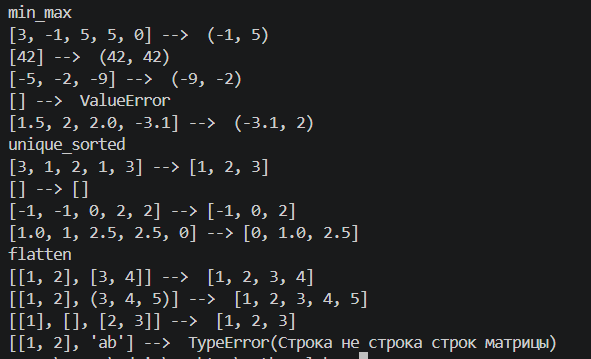
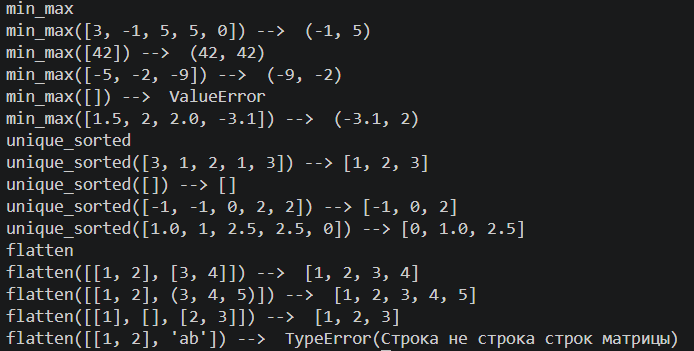
micro

Changed region(s): [[0.0, 0.0, 0.9746, 1.0], [0.4569, 0.1994, 0.5178, 0.2279]]

diff --git a/src/lab02/01_arrays.py b/src/lab02/01_arrays.py
@@ -53,22 +53,22 @@ m2=list(set(a4))
 m3=list(set(a8))
 m4=list(set(a9))
 print("min_max")
-print(f"{a1} --> ", min_max(a1))
-print(f"{a2} --> ", min_max(a2))
-print(f"{a3} --> ", min_max(a3))
-print(f"{a4} --> ", min_max(a4))
-print(f"{a5} --> ", min_max(a5))
+print(f"min_max({a1}) --> ", min_max(a1))
+print(f"min_max({a2}) --> ", min_max(a2))
+print(f"min_max({a3}) --> ", min_max(a3))
+print(f"min_max({a4}) --> ", min_max(a4))
+print(f"min_max({a5}) --> ", min_max(a5))
 print("unique_sorted")
-print(f"{a6} -->", unique_sorted(0,len(m1)-1,m1))
-print(f"{a4} -->", unique_sorted(0,len(m2)-1,m2))
-print(f"{a8} -->", unique_sorted(0,len(m3)-1,m3))
-print(f"{a9} -->", unique_sorted(0,len(m4)-1,m4))
+print(f"unique_sorted({a6}) -->", unique_sorted(0,len(m1)-1,m1))
+print(f"unique_sorted({a4}) -->", unique_sorted(0,len(m2)-1,m2))
+print(f"unique_sorted({a8}) -->", unique_sorted(0,len(m3)-1,m3))
+print(f"unique_sorted({a9}) -->", unique_sorted(0,len(m4)-1,m4))
 print("flatten")
 b1 = [[1, 2], [3, 4]]
 b2 =[[1, 2], (3, 4, 5)]
 b3= [[1], [], [2, 3]]
 b4 =[[1, 2], "ab"]
-print(f"{b1} --> ", flatten(b1))
-print(f"{b2} --> ", flatten(b2))
-print(f"{b3} --> ", flatten(b3))
-print(f"{b4} --> ", flatten(b4))
+print(f"flatten({b1}) --> ", flatten(b1))
+print(f"flatten({b2}) --> ", flatten(b2))
+print(f"flatten({b3}) --> ", flatten(b3))
+print(f"flatten({b4}) --> ", flatten(b4))

diff --git a/src/lab02/02_matrix.py b/src/lab02/02_matrix.py
@@ -55,20 +55,20 @@ c2 = [[-1, 1], [10, -10]]
 c3 = [[0, 0], [0, 0]]
 c4 = [[1, 2], [3]]
 print("transpose")
-print(f"{a1} -->", transpose(a1))
-print(f"{a2} -->", transpose(a2))
-print(f"{a3} -->", transpose(a3))
-print(f"{a4} -->", transpose(a4))
-print(f"{a5} -->", transpose(a5))
+print(f"transpose({a1}) -->", transpose(a1))
+print(f"transpose({a2}) -->", transpose(a2))
+print(f"transpose({a3}) -->", transpose(a3))
+print(f"transpose({a4}) -->", transpose(a4))
+print(f"transpose({a5}) -->", transpose(a5))
 print("row_sums")
-print(f"{b1} -->",row_sums(b1))
-print(f"{b2} -->",row_sums(b2))
-print(f"{b3} -->",row_sums(b3))
-print(f"{b4} -->",row_sums(b4))
+print(f"row_sums({b1}) -->",row_sums(b1))
+print(f"row_sums({b2}) -->",row_sums(b2))
+print(f"row_sums({b3}) -->",row_sums(b3))
+print(f"row_sums({b4}) -->",row_sums(b4))
 print("col_sums")
-print(f"{c1} -->",col_sums(c1))
-print(f"{c2} -->",col_sums(c2))
-print(f"{c3} -->",col_sums(c3))
-print(f"{c4} -->",col_sums(c4))
+print(f"col_sums({c1}) -->",col_sums(c1))
+print(f"col_sums({c2}) -->",col_sums(c2))
+print(f"col_sums({c3}) -->",col_sums(c3))
+print(f"col_sums({c4}) -->",col_sums(c4))
 
 

diff --git a/src/lab02/03_tuples.py b/src/lab02/03_tuples.py
@@ -32,7 +32,7 @@ a1 = ("Иванов Иван Иванович", "BIVT-25", 4.6)
 a2 = ("Петров Пётр", "IKBO-12", 5.0)
 a3 = ("Петров Пётр Петрович", "IKBO-12", 5.0)
 a4 = ("  сидорова  анна   сергеевна ", "ABB-01", 3.999)
-print(f"{a1} -->", format_record(a1))
-print(f"{a2} -->", format_record(a2))
-print(f"{a3} -->", format_record(a3))
-print(f"{a4} -->", format_record(a4))
+print(f"format_record({a1}) -->", format_record(a1))
+print(f"format_record({a2}) -->", format_record(a2))
+print(f"format_record({a3}) -->", format_record(a3))
+print(f"format_record({a4}) -->", format_record(a4))
